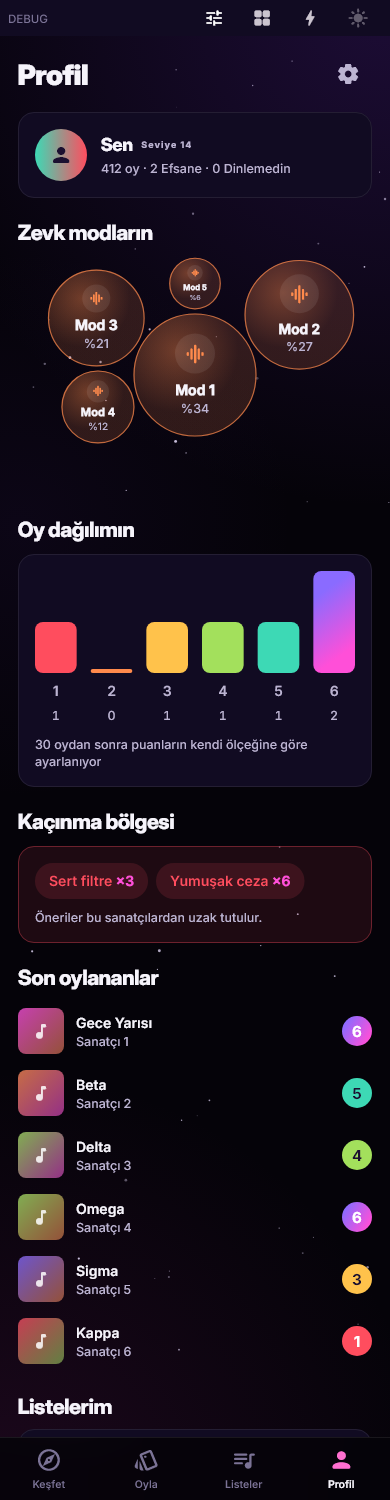
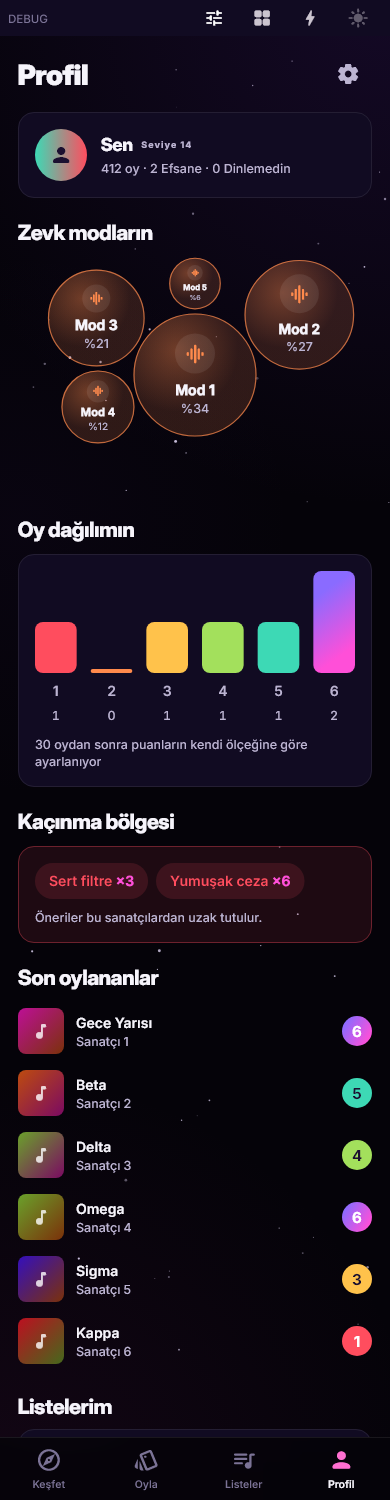
style(ui): darker, richer fallback covers and dimmer nebula glow

Changed region(s): [[0.0308, 0.6747, 0.1846, 0.92]]

diff --git a/mobile/lib/ui/components/tini_cover.dart b/mobile/lib/ui/components/tini_cover.dart
@@ -46,23 +46,25 @@ class TiniCover extends StatelessWidget {
     return (a, b);
   }
 
+  /// Yedek kapak tonu: renk özü korunur, parlaklık düşürülür; koyu ve doygun, göz yormaz.
+  static Color _deep(Color c, double lightness) {
+    final h = HSLColor.fromColor(c);
+    return h.withLightness(lightness).withSaturation((h.saturation * 0.85).clamp(0.0, 1.0)).toColor();
+  }
+
   @override
   Widget build(BuildContext context) {
-    final t = TiniTokens.of(context);
     final (a, b) = colorsFor(seed);
     final fallback = DecoratedBox(
       decoration: BoxDecoration(
         gradient: LinearGradient(
           begin: Alignment.topLeft,
           end: Alignment.bottomRight,
-          colors: [
-            Color.alphaBlend(a.withValues(alpha: 0.75), t.surface2),
-            Color.alphaBlend(b.withValues(alpha: 0.55), t.surface1),
-          ],
+          colors: [_deep(a, 0.40), _deep(b, 0.26)],
         ),
       ),
       child: Center(
-        child: Icon(Icons.music_note_rounded, size: size * 0.42, color: Colors.white.withValues(alpha: 0.85)),
+        child: Icon(Icons.music_note_rounded, size: size * 0.42, color: Colors.white.withValues(alpha: 0.8)),
       ),
     );
     final u = url;

diff --git a/mobile/lib/widgets/studio.dart b/mobile/lib/widgets/studio.dart
@@ -35,9 +35,9 @@ class AmbientBackground extends StatelessWidget {
       color: base,
       child: Stack(
         children: [
-          glow(const Alignment(1.0, -1.0), 1.3, top, dark ? 0.34 : 0.26),
-          glow(const Alignment(-1.0, 1.0), 1.1, bottom, 0.20),
-          glow(const Alignment(-0.9, -0.3), 0.7, top, dark ? 0.10 : 0.08),
+          glow(const Alignment(1.0, -1.0), 1.3, top, dark ? 0.22 : 0.26),
+          glow(const Alignment(-1.0, 1.0), 1.1, bottom, dark ? 0.12 : 0.20),
+          glow(const Alignment(-0.9, -0.3), 0.7, top, dark ? 0.06 : 0.08),
           Positioned.fill(
             child: IgnorePointer(
               child: RepaintBoundary(
